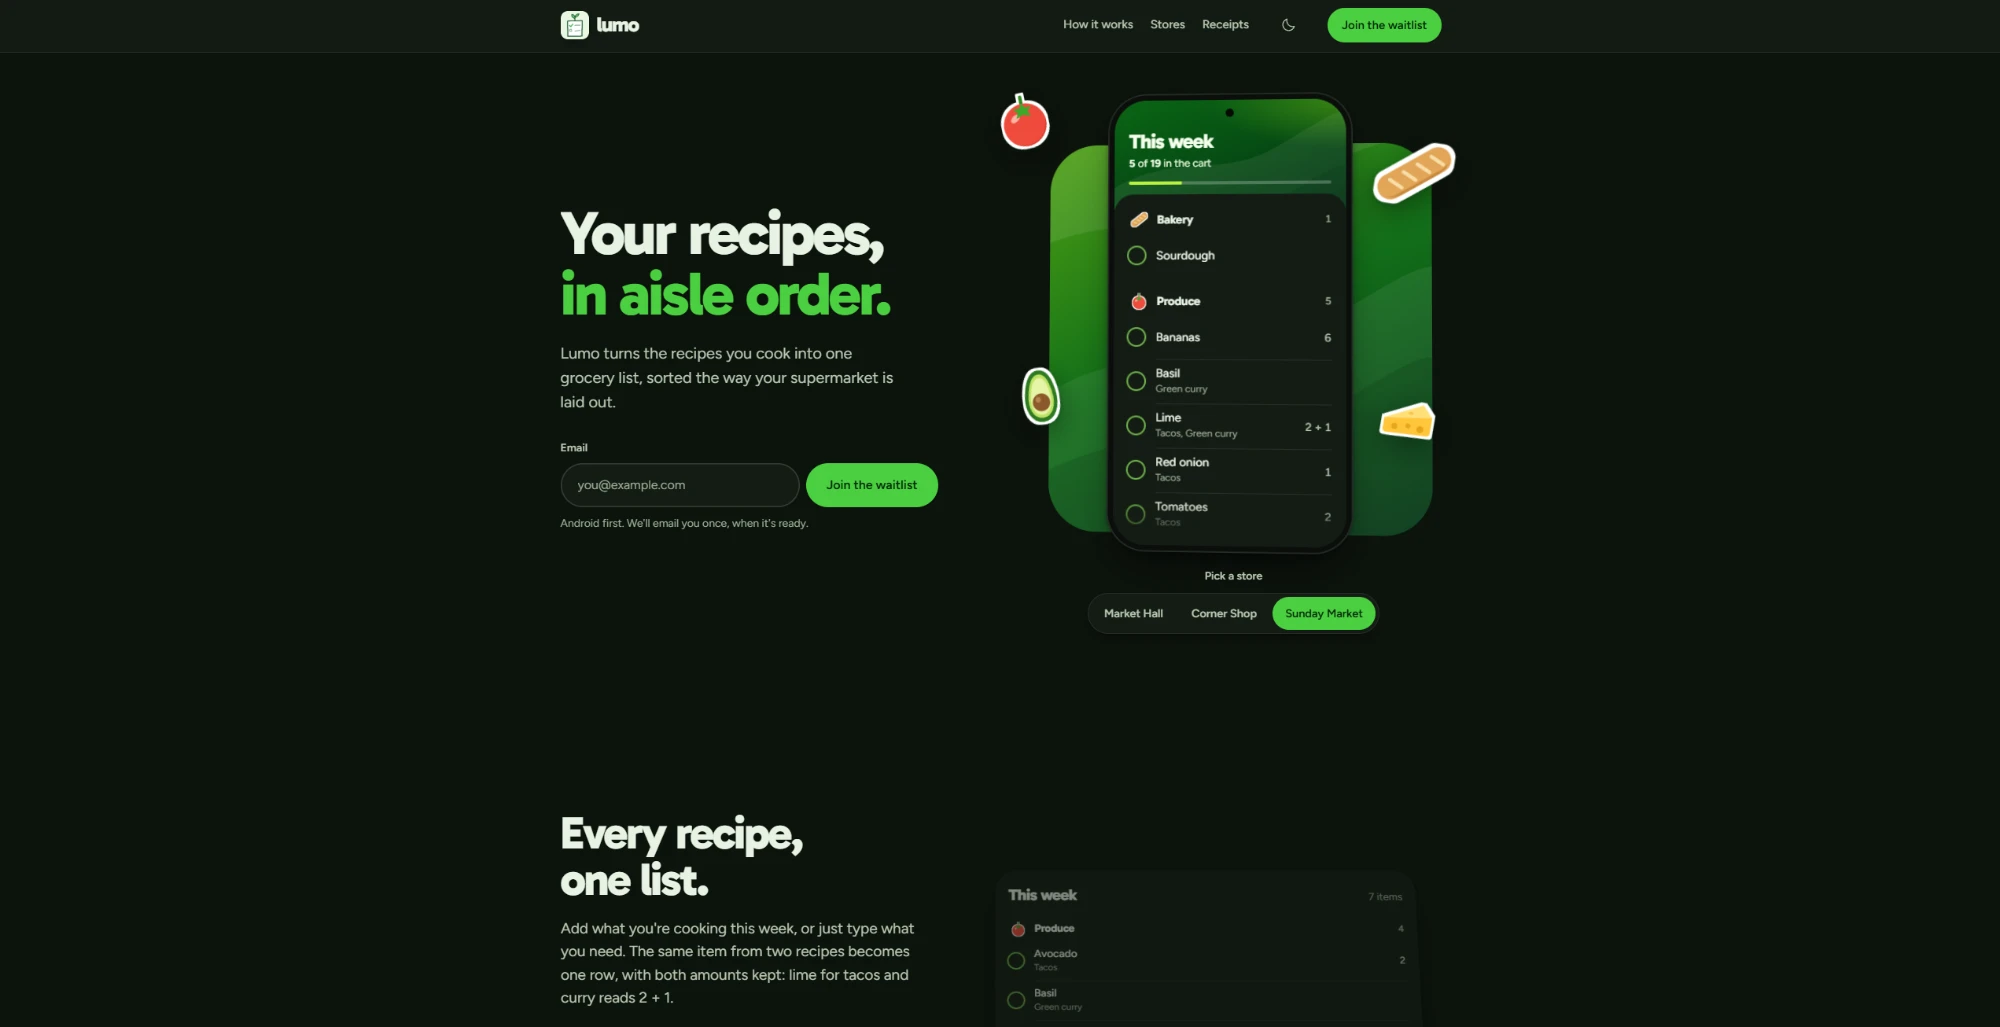
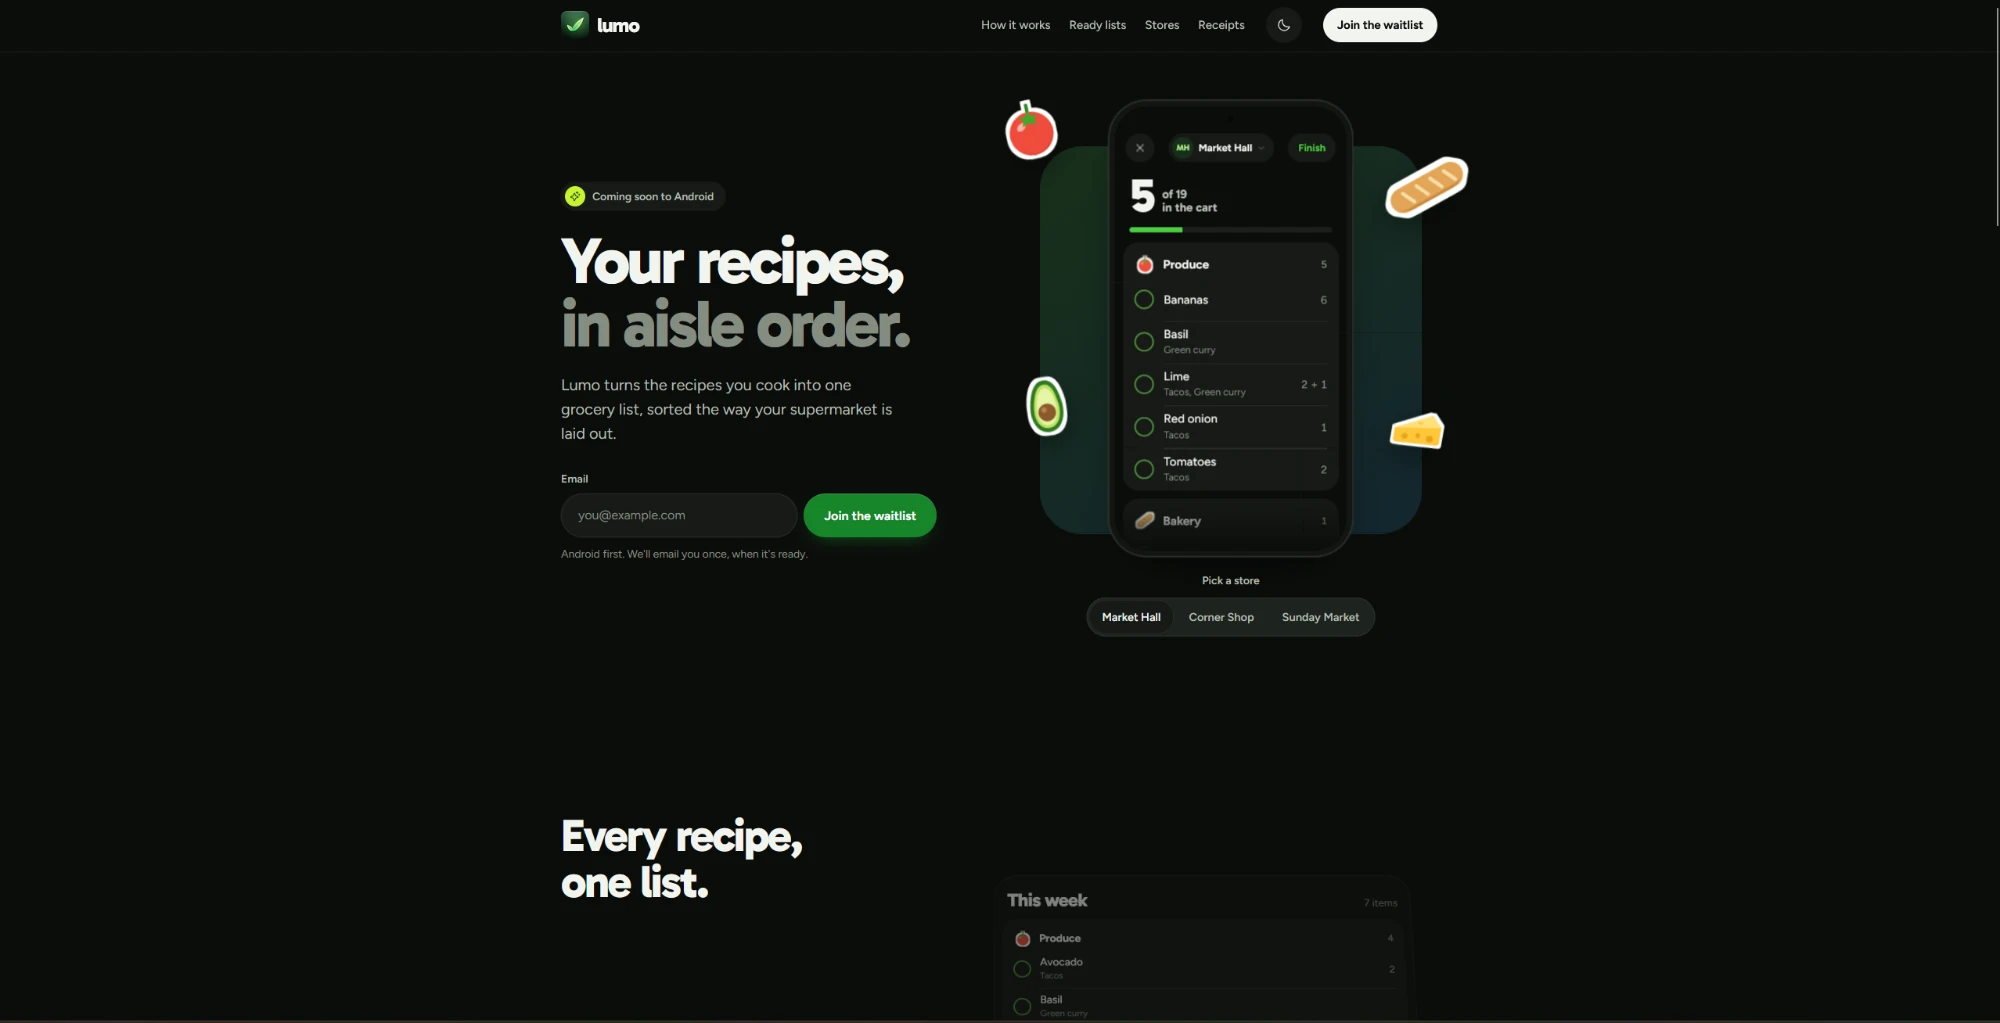
work pictures and search text: current Locked and Lumo, versatility, adaptability and depth (#16)
* chapters: the camera flies through the blocks, every block holds, the wall assembles around Directions

The study blocks no longer move into place for the camera. They stand
still, 70 units apart, and a virtual camera flies straight forward
through them from the last about-me side to Directions. Each block comes
in from its own side, lands in exactly its old reading pose, and
dissolves as the camera passes through it. Its title comes up a little
small, then grows and fades as it is passed. The fog opens on the way so
the next block shows far back, and the floor and fragments stream past
at the camera's speed.

- Steps: 620 ms in-out glides between blocks, 1.7 s for Directions to
  the wall, at most 430 ms between about-me sides. A landing holds a
  block for 1 s (an about-me side for 350 ms): wheel, keys and touch
  wait, trackpad momentum still counts as the old push, and a drag that
  goes on past the hold starts with no jump. Menu jumps never hold.
- The wall assembles across the whole step from Directions (dc runs
  from 3 to 1.4 screens above the work list). Directions stays put while
  the other five fly in and lock in, Directions last.
- Both shader versions of every piece (see-through and opaque) are built
  on the first frame, so the first fly-through never stalls.

Applied from the v5 change request, with two additions:
- The five wall pieces appeared at once, fully visible, the moment the
  wall started. They now fade in over the first 12% of the assembly.
[…]

diff --git a/src/content.ts b/src/content.ts
@@ -147,7 +147,7 @@ export const SITE = {
   /* the browser tab, the search result and what a shared link shows. In English, like the site. Keep the title under
      about 60 characters and the description under about 160, or search engines cut them off. Wording by Claude, Bob may edit. */
   title: "Bob Chung · Creative technologist",
-  description: "Bob Chung, from Aruba with Chinese roots, studying in Rotterdam. Code, design and machines, interlocked like a Lu Ban lock: harder for AI to replace.",
+  description: "Bob Chung, from Aruba with Chinese roots, studying in Rotterdam. Versatility, adaptability and depth, interlocked like a Lu Ban lock: harder for AI to replace.",
 };
 
 /* the loader: a boot log with the name being cracked above it. `eyebrow` rewrites itself into HERO.eyebrow on the way in */
